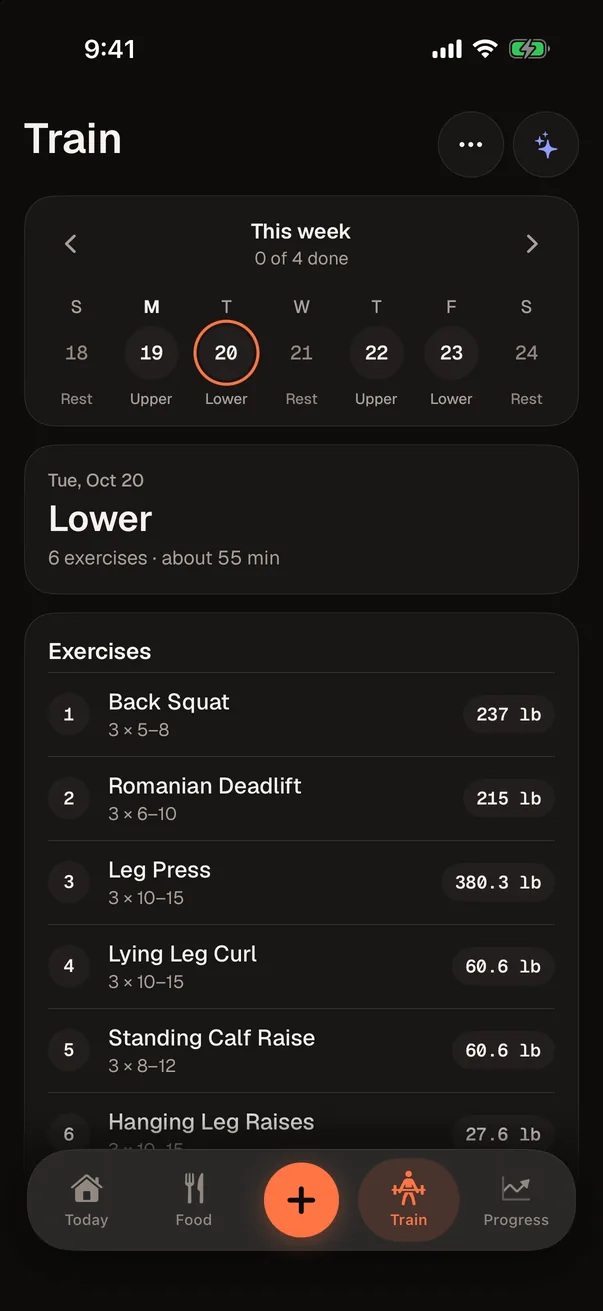
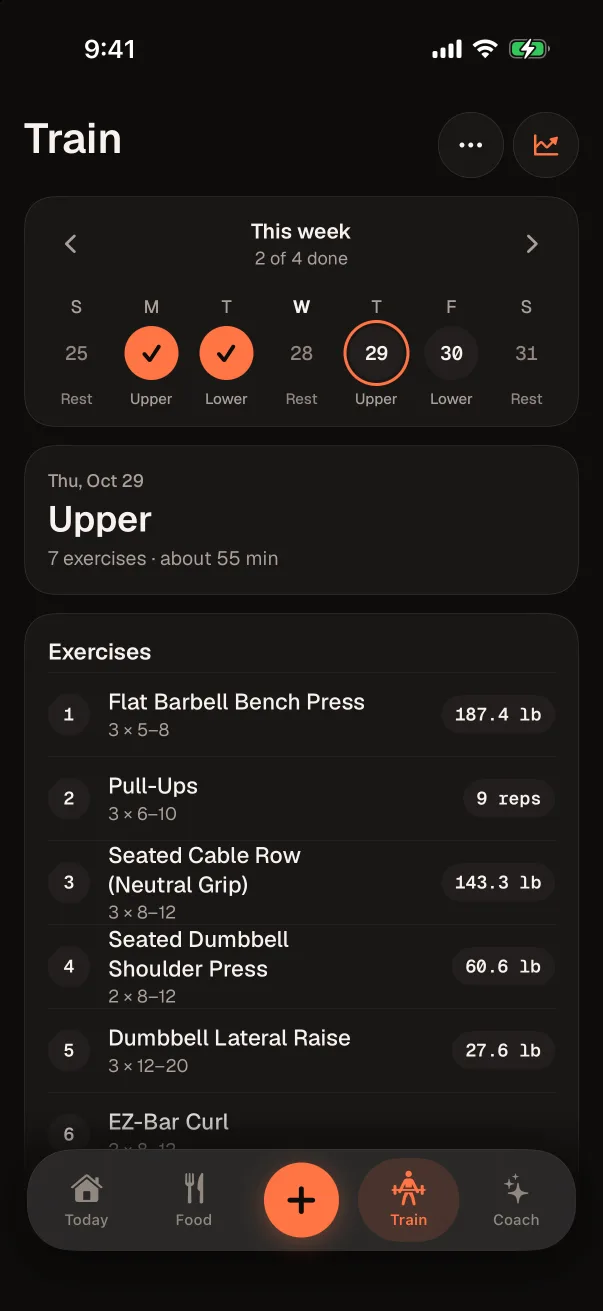
The Train screen in the Tour, with fresh screenshots

diff --git a/index.html b/index.html
@@ -19,7 +19,7 @@
 <link rel="preconnect" href="https://fonts.googleapis.com">
 <link rel="preconnect" href="https://fonts.gstatic.com" crossorigin>
 <link rel="stylesheet" href="https://fonts.googleapis.com/css2?family=Archivo:wdth,wght@62..125,500..900&family=Instrument+Sans:wght@400..700&family=Geist+Mono:wght@400;500;600&display=swap">
-<link rel="stylesheet" href="style.css?v=90a844b7c1">
+<link rel="stylesheet" href="style.css?v=c804baccf7">
 <script src="vendor/lenis.min.js" defer></script>
 <script src="vendor/lenis-snap.min.js" defer></script>
 <script src="site.js?v=36b16f6ffc" defer></script>
@@ -196,10 +196,11 @@
               <button type="button" data-go="food" aria-pressed="false">Food</button>
               <button type="button" data-go="search" aria-pressed="false">Search</button>
               <button type="button" data-go="quicklog" aria-pressed="false">Log</button>
+              <button type="button" data-go="train" aria-pressed="false">Train</button>
               <button type="button" data-go="workout" aria-pressed="false">Workout</button>
               <button type="button" data-go="progress" aria-pressed="false">Progress</button>
             </div>
-            <span class="demo-seen">You've seen <b>1</b> of 6 screens</span>
+            <span class="demo-seen">You've seen <b>1</b> of 7 screens</span>
           </div>
         </div>
         <div class="demo-phone">
@@ -211,12 +212,14 @@
                 <button type="button" class="spot" data-go="progress" style="--x:90%;--y:11%" aria-label="Open Progress"></button>
                 <button type="button" class="spot" data-go="food" style="--x:32%;--y:91.5%" aria-label="Food tab"></button>
                 <button type="button" class="spot" data-go="quicklog" style="--x:50%;--y:91.5%" aria-label="Log something"></button>
+                <button type="button" class="spot" data-go="train" style="--x:68%;--y:91.5%" aria-label="Train tab"></button>
               </span>
               <span class="shot demo-shot" data-screen="food" data-label="Food" data-title="Your day, meal by meal" data-line="Every food with its macros, and vitamins added up for the day. Tap + to add to lunch."><img class="l" src="images/food-light.webp" width="603" height="1311" alt="The day&#x27;s meals with calories, protein, carbs and fat for each food" loading="lazy" decoding="async"><img class="d" src="images/food-dark.webp" width="603" height="1311" alt="The day&#x27;s meals with calories, protein, carbs and fat for each food" loading="lazy" decoding="async">
                 <button type="button" class="spot hot" data-go="search" style="--x:89%;--y:84.2%" aria-label="Add to lunch"></button>
                 <button type="button" class="spot" data-go="progress" style="--x:90%;--y:11%" aria-label="Open Progress"></button>
                 <button type="button" class="spot" data-go="today" style="--x:14%;--y:91.5%" aria-label="Today tab"></button>
                 <button type="button" class="spot" data-go="quicklog" style="--x:50%;--y:91.5%" aria-label="Log something"></button>
+                <button type="button" class="spot" data-go="train" style="--x:68%;--y:91.5%" aria-label="Train tab"></button>
               </span>
               <span class="shot demo-shot" data-screen="search" data-label="Search" data-title="Type it, scan it or snap it" data-line="12,000+ foods that work offline, Indian dishes too. Tap a result to log it."><img class="l" src="images/search-light.webp" width="603" height="1311" alt="Food search for chicken, with calories and protein for each result" loading="lazy" decoding="async"><img class="d" src="images/search-dark.webp" width="603" height="1311" alt="Food search for chicken, with calories and protein for each result" loading="lazy" decoding="async">
                 <button type="button" class="spot hot" data-go="food" data-note="Chicken breast added to Lunch" style="--x:50%;--y:36%" aria-label="Log chicken breast, cooked"></button>
@@ -226,6 +229,13 @@
                 <button type="button" class="spot hot" data-go="search" style="--x:13%;--y:62%" aria-label="Log food"></button>
                 <button type="button" class="spot" data-go="workout" style="--x:73%;--y:76%" aria-label="Start the workout"></button>
                 <button type="button" class="spot" data-go="today" style="--x:88%;--y:51.7%" aria-label="Close"></button>
+              </span>
+              <span class="shot demo-shot" data-screen="train" data-label="Train" data-title="Your week, planned" data-line="Each day's workout, with a target for every exercise from your own history. Tap one to start."><img class="l" src="images/train-light.webp" width="603" height="1311" alt="The Train tab: this week&#x27;s plan and Thursday&#x27;s upper-body exercises, each with its target weight" loading="lazy" decoding="async"><img class="d" src="images/train-dark.webp" width="603" height="1311" alt="The Train tab: this week&#x27;s plan and Thursday&#x27;s upper-body exercises, each with its target weight" loading="lazy" decoding="async">
+                <button type="button" class="spot hot" data-go="workout" style="--x:50%;--y:54.5%" aria-label="Start with Flat Barbell Bench Press"></button>
+                <button type="button" class="spot" data-go="progress" style="--x:90%;--y:11%" aria-label="Open Progress"></button>
+                <button type="button" class="spot" data-go="today" style="--x:14%;--y:91.5%" aria-label="Today tab"></button>
+                <button type="button" class="spot" data-go="food" style="--x:32%;--y:91.5%" aria-label="Food tab"></button>
+                <button type="button" class="spot" data-go="quicklog" style="--x:50%;--y:91.5%" aria-label="Log something"></button>
               </span>
               <span class="shot demo-shot" data-screen="workout" data-label="Workout" data-title="Every set has a number to beat" data-line="Last time's weights, a rest timer that rings and plates per side. Tap Log set." data-best-title="A new best, noticed for you" data-best-line="Beat your best and it celebrates, with a picture ready to share."><img class="l" src="images/workout-light.webp" width="603" height="1311" alt="Logging a set of Flat Barbell Bench Press, with the rest timer and plates per side" loading="lazy" decoding="async"><img class="d" src="images/workout-dark.webp" width="603" height="1311" alt="Logging a set of Flat Barbell Bench Press, with the rest timer and plates per side" loading="lazy" decoding="async">
                 <button type="button" class="spot hot" data-go="best" style="--x:50%;--y:77.8%" aria-label="Log set"></button>

diff --git a/style.css b/style.css
@@ -1967,9 +1967,9 @@ main { position: relative; }
 .demo-label { font-family: var(--mono); font-size: 13px; font-weight: 500; color: var(--brand); }
 .demo-now strong { font-family: var(--display); font-stretch: 78%; font-weight: 800; font-size: 28px; line-height: 1.02; }
 .demo-now p { color: var(--text-2); font-size: 16px; }
-.demo-places { display: flex; flex-wrap: wrap; gap: 8px; }
+.demo-places { display: flex; flex-wrap: wrap; gap: 6px; }
 .demo-places button {
-  min-height: 40px; padding: 0 15px; border-radius: 999px; border: 1px dashed color-mix(in srgb, var(--text) 24%, transparent);
+  min-height: 40px; padding: 0 13px; border-radius: 999px; border: 1px dashed color-mix(in srgb, var(--text) 24%, transparent);
   background: transparent; color: var(--text-2); font: inherit; font-size: 15px; font-weight: 500; cursor: pointer;
   transition: background-color 200ms ease, color 200ms ease, border-color 200ms ease;
 }

diff --git a/faq.html b/faq.html
@@ -13,7 +13,7 @@
 <link rel="preconnect" href="https://fonts.googleapis.com">
 <link rel="preconnect" href="https://fonts.gstatic.com" crossorigin>
 <link rel="stylesheet" href="https://fonts.googleapis.com/css2?family=Archivo:wdth,wght@62..125,500..900&family=Instrument+Sans:wght@400..700&family=Geist+Mono:wght@400;500;600&display=swap">
-<link rel="stylesheet" href="style.css?v=90a844b7c1">
+<link rel="stylesheet" href="style.css?v=c804baccf7">
 <script src="vendor/lenis.min.js" defer></script>
 <script src="vendor/lenis-snap.min.js" defer></script>
 <script src="site.js?v=36b16f6ffc" defer></script>

diff --git a/privacy.html b/privacy.html
@@ -13,7 +13,7 @@
 <link rel="preconnect" href="https://fonts.googleapis.com">
 <link rel="preconnect" href="https://fonts.gstatic.com" crossorigin>
 <link rel="stylesheet" href="https://fonts.googleapis.com/css2?family=Archivo:wdth,wght@62..125,500..900&family=Instrument+Sans:wght@400..700&family=Geist+Mono:wght@400;500;600&display=swap">
-<link rel="stylesheet" href="style.css?v=90a844b7c1">
+<link rel="stylesheet" href="style.css?v=c804baccf7">
 <script src="vendor/lenis.min.js" defer></script>
 <script src="vendor/lenis-snap.min.js" defer></script>
 <script src="site.js?v=36b16f6ffc" defer></script>

diff --git a/terms.html b/terms.html
@@ -13,7 +13,7 @@
 <link rel="preconnect" href="https://fonts.googleapis.com">
 <link rel="preconnect" href="https://fonts.gstatic.com" crossorigin>
 <link rel="stylesheet" href="https://fonts.googleapis.com/css2?family=Archivo:wdth,wght@62..125,500..900&family=Instrument+Sans:wght@400..700&family=Geist+Mono:wght@400;500;600&display=swap">
-<link rel="stylesheet" href="style.css?v=90a844b7c1">
+<link rel="stylesheet" href="style.css?v=c804baccf7">
 <script src="vendor/lenis.min.js" defer></script>
 <script src="vendor/lenis-snap.min.js" defer></script>
 <script src="site.js?v=36b16f6ffc" defer></script>
